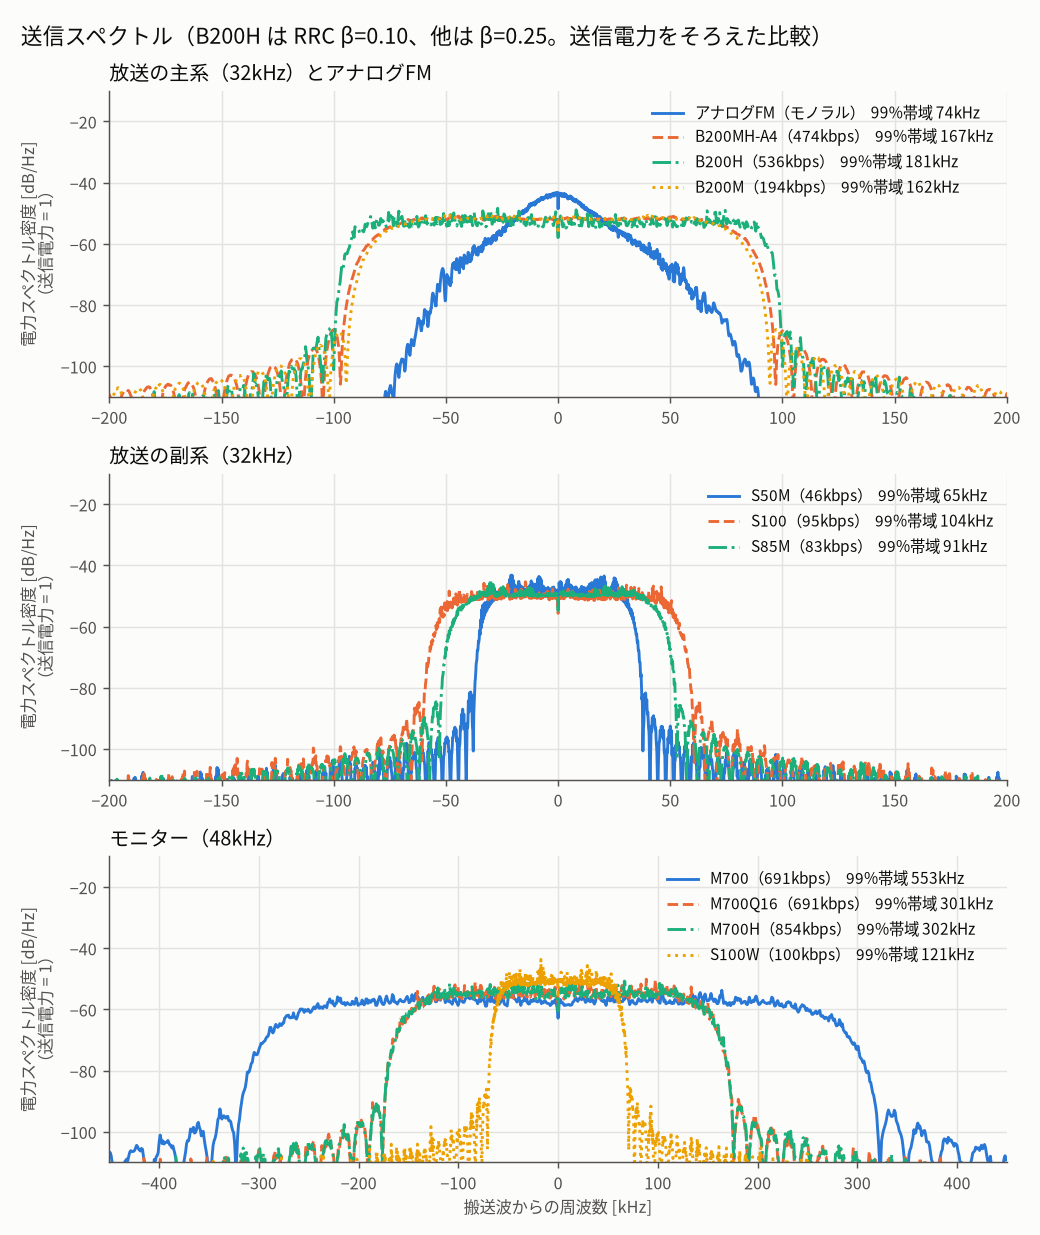
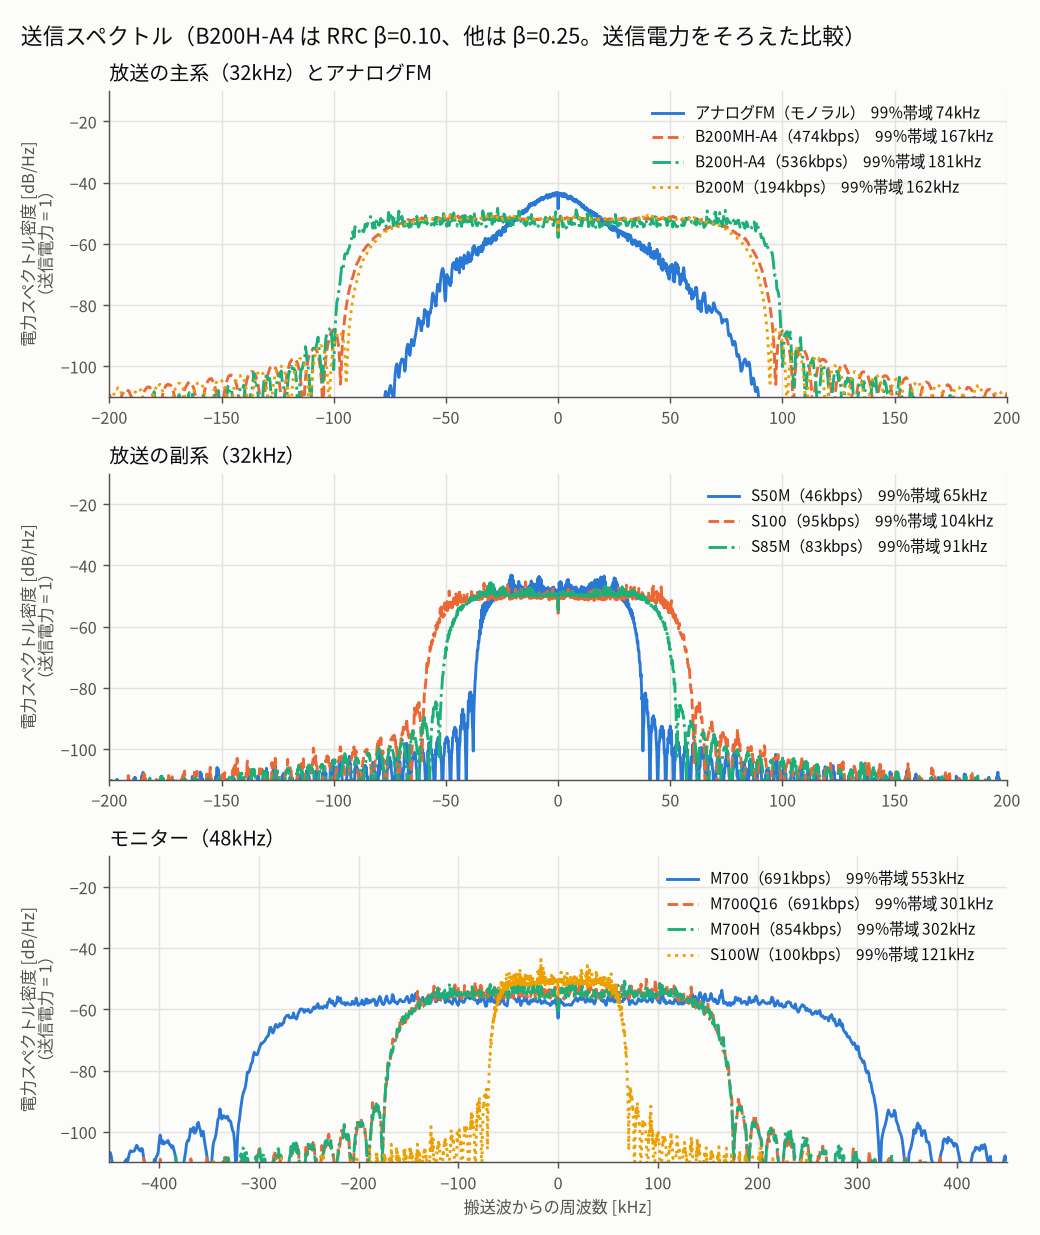
fix.

Changed region(s): [[0.2462, 0.0, 0.8, 0.0615], [0.7077, 0.1231, 0.9231, 0.1538]]

diff --git a/tools/eval_aptx_benchmark.py b/tools/eval_aptx_benchmark.py
@@ -1,5 +1,5 @@
 #!/usr/bin/env python3
-"""Compare stereo B200H with FFmpeg aptX and aptX HD on untracked lossless WAVs.
+"""Compare stereo B200H-A4 with FFmpeg aptX and aptX HD on untracked lossless WAVs.
 
 The common-band view uses the same 32 kHz input for GraceFM and aptX (the
 latter is upsampled to its 48 kHz operating rate). The full-band view uses
@@ -80,14 +80,14 @@ def evaluate(task):
 
     entry, seconds = task
     original48, x32, common48 = source(entry, seconds)
-    grace48 = wavio.resample(codec(x32, PROFILES["B200H"]), 32000, 48000)
+    grace48 = wavio.resample(codec(x32, PROFILES["B200H-A4"]), 32000, 48000)
     api = VisqolApi()
     api.create(mode="audio")
     rows = []
     for view, reference in (("common_16khz", common48), ("full_48khz", original48)):
-        for method in ("B200H", "aptX", "aptX_HD"):
-            if method == "B200H":
-                y, bitrate, delay = grace48, PROFILES["B200H"].audio_kbps(), 0
+        for method in ("B200H-A4", "aptX", "aptX_HD"):
+            if method == "B200H-A4":
+                y, bitrate, delay = grace48, PROFILES["B200H-A4"].audio_kbps(), 0
             else:
                 variant = "aptx" if method == "aptX" else "aptx_hd"
                 y, bitrate, delay = aptx_roundtrip(reference, variant, get_ffmpeg_exe())
@@ -132,7 +132,7 @@ def main():
     version = subprocess.run([ffmpeg, "-version"], check=True, capture_output=True,
                              text=True).stdout.splitlines()[0]
     result = dict(method="Codec-only stereo comparison; no Bluetooth transport or radio channel",
-                  ffmpeg_version=version, gracefm_profile="B200H", source_seconds=args.seconds,
+                  ffmpeg_version=version, gracefm_profile="B200H-A4", source_seconds=args.seconds,
                   source_offset_seconds=1, source_peak=0.89, aptx_sample_rate_hz=48000,
                   gracefm_sample_rate_hz=32000, metric_sample_rate_hz=48000,
                   common_view="All codecs receive the same 16 kHz-limited input; aptX input is upsampled from 32 to 48 kHz.",

diff --git a/tools/spectrum.py b/tools/spectrum.py
@@ -81,7 +81,7 @@ def main():
     x = x[: 4 * fs]
     x48 = wavio.resample(x, fs, 48000)
     groups = [
-        ("放送の主系（32kHz）とアナログFM", ["FM", "B200MH-A4", "B200H", "B200M"]),
+        ("放送の主系（32kHz）とアナログFM", ["FM", "B200MH-A4", "B200H-A4", "B200M"]),
         ("放送の副系（32kHz）", ["S50M", "S100", "S85M"]),
         ("モニター（48kHz）", ["M700", "M700Q16", "M700H", "S100W"]),
     ]
@@ -116,7 +116,7 @@ def main():
         ax.set_ylabel("電力スペクトル密度 [dB/Hz]\n（送信電力 = 1）", fontsize=9, color=INK2)
         ax.legend(fontsize=8.5, frameon=False, loc="upper right", labelcolor=INK)
     axs[-1].set_xlabel("搬送波からの周波数 [kHz]", fontsize=9, color=INK2)
-    fig.suptitle("送信スペクトル（B200H は RRC β=0.10、他は β=0.25。送信電力をそろえた比較）", fontsize=12, color=INK, x=0.02,
+    fig.suptitle("送信スペクトル（B200H-A4 は RRC β=0.10、他は β=0.25。送信電力をそろえた比較）", fontsize=12, color=INK, x=0.02,
                  ha="left")
     fig.tight_layout()
     fig.savefig(os.path.join(ROOT, "docs", "figures", "rf_spectrum.png"), dpi=130, facecolor=SURF)
@@ -125,7 +125,7 @@ def main():
     demo48 = make_demo(48000)
     demo32 = wavio.resample(demo48, 48000, 32000)
     demo32 *= 0.89 / np.abs(demo32).max()
-    agroups = [("放送（32kHz、demo の M）", demo32, 32000, ["B200H", "B200", "S100"]),
+    agroups = [("放送（32kHz、demo の M）", demo32, 32000, ["B200H-A4", "B200", "S100"]),
                ("モニター（48kHz、demo の M）", demo48, 48000, ["M700H", "M700", "M700H基本層"])]
     from dataclasses import replace
     mh = PROFILES["M700H"]

diff --git a/gracefm/profiles.py b/gracefm/profiles.py
@@ -196,8 +196,9 @@ def make_layered(base: Profile, name: str, pid: int, modulation: str = "qam16h",
 PROFILES["B200MH"] = make_layered(PROFILES["B200M"], "B200MH", 9)
 # 放送ステレオ主系は M/S の最高域32係数に区間アッテネータを付ける。
 # M は8係数ごとに4bit、S は4係数ごとに8bit。指数幅と仮数幅は維持する。
-# 固定指数オフセットは旧 B200H の算出値と同じで、フレームには送らない。
-PROFILES["B200H"] = replace(make_layered(PROFILES["B200"], "B200H", 10),
+# A4 はステレオの S 側を4係数ごとに区切る構成を示す（M 側は8係数ごと）。
+# 固定指数オフセットはフレームには送らない。
+PROFILES["B200H-A4"] = replace(make_layered(PROFILES["B200"], "B200H-A4", 10),
                              exp_offset_m=(-25, -25, -26, -23, -21, -18, -19),
                              exp_offset_s=(-23, -21, -21, -18, -18, -18, -19),
                              attn_group_m=(0, 0, 0, 0, 0, 0, 8),

diff --git a/tools/eval_final.py b/tools/eval_final.py
@@ -27,9 +27,9 @@ MONO = [("FM", None), ("B200M", dict(main="B200M", sub=None)),
         ("B200MH-A4", dict(main="B200MH-A4", sub=None)),
         ("B200MH-A4+S50M 50:50", dict(main="B200MH-A4", sub="S50M", power_main=0.5)),
         ("B200MH-A4+S50M 75:25", dict(main="B200MH-A4", sub="S50M", power_main=0.75))]
-STEREO = [("B200", dict(main="B200", sub=None)), ("B200H", dict(main="B200H", sub=None)),
-          ("B200H+S100 50:50", dict(main="B200H", sub="S100", power_main=0.5)),
-          ("B200H+S100 75:25", dict(main="B200H", sub="S100", power_main=0.75))]
+STEREO = [("B200", dict(main="B200", sub=None)), ("B200H-A4", dict(main="B200H-A4", sub=None)),
+          ("B200H-A4+S100 50:50", dict(main="B200H-A4", sub="S100", power_main=0.5)),
+          ("B200H-A4+S100 75:25", dict(main="B200H-A4", sub="S100", power_main=0.75))]
 
 
 def job(a):

diff --git a/gracefm/channel.py b/gracefm/channel.py
@@ -13,7 +13,7 @@ from .txrx import Transmitter, receive
 
 # 主系に組み合わせる副系 (主系より低いビットレートで、別の周波数で送る受け皿)
 DEFAULT_SUB = {"M700Q16": "S100W", "M700H": "S100W", "M700": "S100W", "B200MH": "S50M",
-               "B200MH-A4": "S50M", "B200H": "S100", "B200M": "S50M", "B150M": "S50M",
+               "B200MH-A4": "S50M", "B200H-A4": "S100", "B200M": "S50M", "B150M": "S50M",
                "B200": "S100", "B150": "S100"}
 
 

diff --git a/tools/eval_kalman.py b/tools/eval_kalman.py
@@ -23,7 +23,7 @@ from gracefm.profiles import PROFILES  # noqa: E402
 
 VARS = {"なし": None, "低3帯域 AR(2)": dict(kalman_bands=[0, 1, 2]), "全帯域 AR(2)": dict(kalman_bands="all"),
         "低3帯域 AR(8)": dict(kalman_bands=[0, 1, 2], kalman_order=8)}
-MATS = (("fishin", "B200MH-A4"), ("vibeace", "B200MH-A4"), ("demo", "B200H"))
+MATS = (("fishin", "B200MH-A4"), ("vibeace", "B200MH-A4"), ("demo", "B200H-A4"))
 CN0S = (54.0, 60.0, 66.0)
 
 

diff --git a/tools/eval_pf_link.py b/tools/eval_pf_link.py
@@ -23,7 +23,7 @@ from gracefm import channel, metrics, plc, txrx, wavio  # noqa: E402
 from gracefm.profiles import PROFILES  # noqa: E402
 
 VARS = {"なし": dict(postfilter=False), "区間を広げない": dict(eps=0.5), "既定": dict()}
-MATS = (("fishin", "B200MH-A4"), ("vibeace", "B200MH-A4"), ("demo", "B200H"))
+MATS = (("fishin", "B200MH-A4"), ("vibeace", "B200MH-A4"), ("demo", "B200H-A4"))
 CN0S = (None, 57.0, 63.0, 70.0, 80.0)
 
 

diff --git a/tools/eval_stereo_attn.py b/tools/eval_stereo_attn.py
@@ -24,7 +24,7 @@ from gracefm.profiles import PROFILES  # noqa: E402
 
 
 def profiles():
-    base = replace(PROFILES["B200H"], attn_group_m=None, attn_group_s=None)
+    base = replace(PROFILES["B200H-A4"], attn_group_m=None, attn_group_s=None)
     off4 = (0, 0, 0, 0, 0, 0, 4)
     off8 = (0, 0, 0, 0, 0, 0, 8)
     variants = {

diff --git a/tests/test_gracefm.py b/tests/test_gracefm.py
@@ -140,7 +140,7 @@ def test_adopted_attenuator_profile_end_to_end():
 
 
 def test_broadcast_joint_stereo_attenuators():
-    p = PROFILES["B200H"]
+    p = PROFILES["B200H-A4"]
     assert p.pid == 10 and p.exp_bits == 4
     assert p.pulse_beta == 0.10 and p.pulse_span == 32
     from gracefm.channel import symbol_rate
